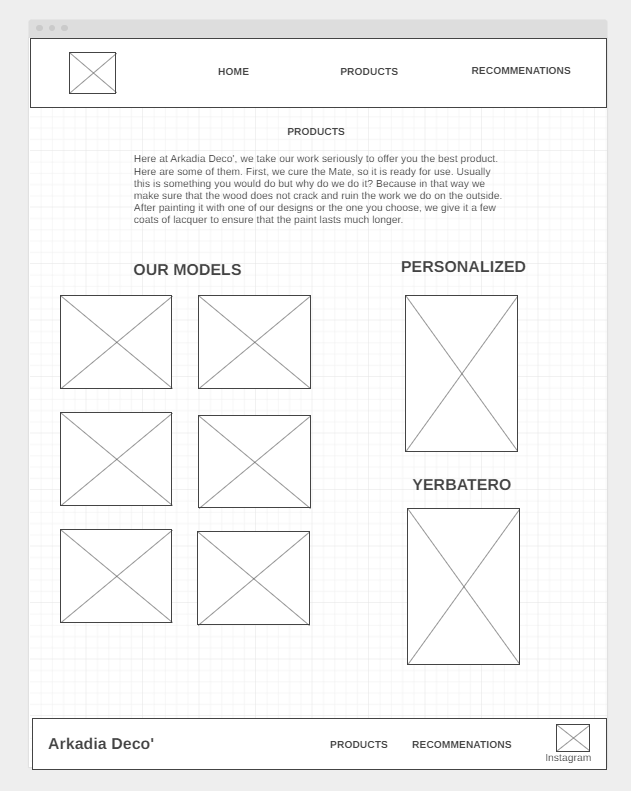
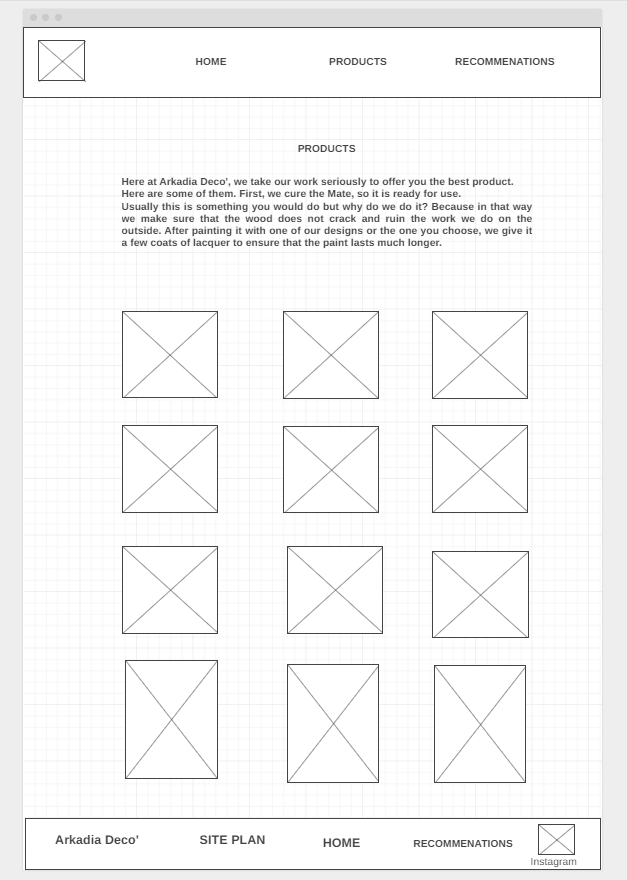
changes in the code

diff --git a/FinalProject/site-plan.html b/FinalProject/site-plan.html
@@ -42,7 +42,7 @@
       <h2>Branding</h2>
       <h3>Website Logo</h3>
       <!-- Replace this with some sort of logo for your site.  A logo can be as simple as the name of your site in a nice font :) -->
-      <img src="images/arkadia.jpeg" alt="Logo image" />
+      <img src="images/arkadia.jpg" alt="Logo image" />
       <hr>
       <h2>
         Style Guide
@@ -139,10 +139,12 @@
       <p>Why come to visit my site? Here in Arkadia Deco' we have the best models of Mates and Yerbateros. All in woodwork. We have mates from palo santo, oak, carob, caldén, quebracho, and pumpkin. 
         Also, if you like, we can personalize your Mate with phrases and colors that you love the most.</p>
       <p>Images for the Home page</p>
-        <img src="images/Mate-Hexagonal.jpg" alt="image for home page">
+        <img src="images/Hexagonal.jpg" alt="image for home page">
         <p>Mate Hexagonal</p>
         <img src="images/mate-algarrobo.jpg" alt="image for home page">
         <p>Mate of carob tree</p>
+        <img src="images/mate-algarrobo-Hexagonal.jpg" alt="image for home page">
+        <p>Mate Hexagonal carob tree</p>
 
       </ul>
       <h3>Products</h3> <!-- pag2-->
@@ -151,18 +153,30 @@
       
   
       <p>Images for the Page 2</p>
-        <img src="images/4-mates-claros.jpg" alt="image for page">
-        <p>Hand Painted</p>
-        <img src="images/3-mates.jpg" alt="image for page">
-        <p>Then Lacquered</p>
-        <img src="images/Mate-personalizado.jpg" alt="image for page">
+        <img src="images/cuatro-mates-claros.jpg" alt="image for page">
+        <p>Hand Painted and lacquer</p>
+        <img src="images/tres-mates.jpg" alt="image for page">
+        <p>Hand Painted and lacquer</p>
+        <img src="images/cuatro-mates-oscuros.jpg" alt="image for page">
+        <p>Hand Painted and lacquer</p>
+        <img src="images/rsz-mate-frases.jpg" alt="image for page">
+        <p>Personalized - Phrases</p>
+        <img src="images/rsz_mate-nordico.jpg" alt="image for page">
+        <p>Personalized - Nordic</p>
+        <img src="images/Juego-mate-y-yerbatero.jpeg" alt="image for page">
         <p>Personalized</p>
-        <img src="images/Mate-nordico.jpg" alt="image for page">
+        <img src="images/Box-regalo-bolsa.jpg" alt="image for page">
+        <p>Gift Box </p>
+        <img src="images/mate-cuenco-box.jpg" alt="image for page">
+        <p>Mate and Bowl box</p>
+        <img src="images/productos-a-la-vista.jpg" alt="image for page">
+        <p>Products in sight</p>
+        <img src="images/Mate-triangulo-azul.jpg" alt="image for page">
         <p>Personalized</p>
-        <img src="images/Mate-frases.jpg" alt="image for page">
+        <img src="images/rsz_mate-personalizado.jpg" alt="image for page">
         <p>Personalized</p>
-        <img src="images/yerbatero.webp" alt="image for page">
-        <p>"Yerbatero" where to store your yerba mate.</p>
+        <img src="images/Mate-box.jpg" alt="image for page">
+        <p>Mate-box</p>
      
 
       </ul>

diff --git a/FinalProject/products.html b/FinalProject/products.html
@@ -44,26 +44,43 @@
                 <img class="card-img" src="images/cuatro-mates-oscuros.jpg" alt="mates oscuros">
                 <h2>Hand Painted and lacquer</h2>
             </section>
-            <section class="mate-yerbatero-card">
-                <img class="card-img" src="images/Juego-mate-y-yerbatero.jpeg" alt="mate yerbatero">
-                <h2>Natural</h2>
-            </section>
             <section class="mate-frases-card">
-                <img class="card-img" src="images/Mate-frases.jpg" alt=" frases">
-                <h2>Personalized</h2>
+                <img class="card-img" src="images/rsz-mate-frases.jpg" alt=" frases">
+                <h2>Personalized - Phrases</h2>
             </section>
             <section class="nordico-card">
-                <img class="card-img" src="images/Mate-nordico.jpg" alt="nordico">
+                <img class="card-img" src="images/rsz_mate-nordico.jpg" alt="nordico">
+                <h2>Personalized - Nordic</h2>
+            </section>
+            <section class="mate-yerbatero-card">
+                <img class="card-img" src="images/Juego-mate-y-yerbatero.jpeg" alt="mateyerbatero">
+                <h2>Personalized</h2>
+            </section>
+            <section class="box-regalo-card">
+                <img class="card-img" src="images/Box-regalo-bolsa.jpg" alt="personalizado">
+                <h2>Gift Box </h2>
+            </section>
+            <section class="mate-cuenco-card">
+                <img class="card-img" src="images/mate-cuenco-box.jpg" alt="mate yerbatero">
+                <h2>Mate and Bowl box</h2>
+            </section>
+            <section class="products-card">
+                <img class="card-img" src="images/productos-a-la-vista.jpg" alt="personalizado">
+                <h2>Products in sight</h2>
+            </section>
+            <section class="triangulo-azul-card">
+                <img class="card-img" src="images/Mate-triangulo-azul.jpg" alt="personalizado">
                 <h2>Personalized</h2>
             </section>
             <section class="love-card">
-                <img class="card-img" src="images/Mate-personalizado.jpg" alt="personalizado">
+                <img class="card-img" src="images/rsz_mate-personalizado.jpg" alt="personalizado">
                 <h2>Personalized</h2>
             </section>
-            <section class="yerbatero-card">
-                <img class="card-img" src="images/yerbatero.webp" alt="yerbatero">
-                <h2>"Yerbatero" where to store your yerba mate.</h2>
+            <section class="mate-box-card">
+                <img class="card-img" src="images/Mate-box.jpg  " alt="yerbatero">
+                <h2>Mate Box</h2>
             </section>
+
         </main>
         <footer>
             <h3>Arkadia Deco' &copy; 2022</h3>

diff --git a/FinalProject/styles/personalpage.css b/FinalProject/styles/personalpage.css
@@ -32,10 +32,11 @@ body {
 }
 
 .mpp {
-    width: 100%;
+    width: 82%;
     margin: 0 auto;
     font-family: roboto slab;
     font-size: 30px;
+    text-align: center;
 }
 
 #content {
@@ -84,7 +85,6 @@ nav a {
 .products-grid {
     display: grid;
     grid-template-columns: repeat(10, 1fr);
-    grid-template-rows: repeat(10, 1fr);
 }
 
 .main-title {
@@ -102,6 +102,7 @@ nav a {
     width: 100%;
 }
 
+/*home page*/
 
 .hexagonal-card {
     grid-column: 2/4;
@@ -120,48 +121,94 @@ nav a {
 .algarrobo-hexagonal-card {  
     grid-column: 2/8;
     grid-row: auto;
-    margin-top: 50px;
-    margin-bottom: 50PX;
 }
+
+/*products*/
+
 .cuatro-mates-claros-card  {
     grid-column: 2/4;
-    grid-row: 2/4;
+    grid-row: auto;
+    margin-top: 100px;
+    margin-bottom: 100PX;
 }
 .tres-mates-card {
     grid-column: 5/7;
-    grid-row: 2/4;
-
+    grid-row: auto;
+    margin-top: 100px;
+    margin-bottom: 100PX;
 }
 .cuatro-mates-oscuros-cards {
-    grid-column: 2/4;
-    grid-row: 5/7;
-
-}
-.mate-yerbatero-card {
-    grid-column: 5/7;
-    grid-row: 5/7;
-
+    grid-column: 8/10;
+    grid-row: auto;
+    margin-top: 100px;
+    margin-bottom: 100PX;
 }
 .mate-frases-card {
     grid-column: 2/4;
-    grid-row: 8/10;
-
+    grid-row: auto;
+    margin-top: 100px;
+    margin-bottom: 100PX;
 }
 .nordico-card {
     grid-column: 5/7;
-    grid-row: 8/10;
-
+    grid-row: auto;
+    margin-top: 100px;
+    margin-bottom: 100PX;
+}
+.mate-yerbatero-card {
+    grid-column: 8/10;
+    grid-row: auto;
+    margin-top: 100px;
+    margin-bottom: 100PX;
+}
+.box-regalo-card {
+    grid-column: 2/4;
+    grid-row: auto;
+    margin-top: 100px;
+    margin-bottom: 100PX;
+}
+.mate-cuenco-card {
+    grid-column: 5/7;
+    grid-row: auto;
+    margin-top: 100px;
+    margin-bottom: 100PX;
+}
+.products-card {
+    grid-column: 8/10;
+    grid-row: auto;
+    margin-top: 100px;
+    margin-bottom: 100PX;
+}
+.triangulo-azul-card {
+    grid-column: 2/4;
+    grid-row: auto;
+    margin-top: 100px;
+    margin-bottom: 100PX;
 }
 .love-card {
+    grid-column: 5/7;
+    grid-row: auto;
+    margin-top: 100px;
+    margin-bottom: 100PX;
+}
+.mate-box-card {
     grid-column: 8/10;
-    grid-row: 2/5;
+    grid-row: auto;
+    margin-top: 100px;
+    margin-bottom: 100PX;
 
 }
-.yerbatero-card {
-    grid-column: 8/10;
-    grid-row: 7/10;
 
-}
+/*
+
+
+*/
+/**/
+
+
+
+
+/* recommenations*/
 
 main section img {
     box-sizing: border-box;

diff --git a/FinalProject/index.html b/FinalProject/index.html
@@ -28,7 +28,7 @@
         class="close" title="Close Modal">&times;</span>
 
         <!-- Modal Content -->
-        <form class="modal-content animate" action="/action_page.php">
+        <form class="modal-content animate" action="#">
             <div class="imgcontainer">
             <img src="images/avatar2.png" alt="Avatar" class="avatar">
             </div>
